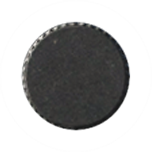
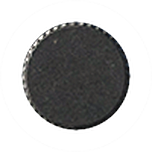
CH-47F Viewports changes.

diff --git a/Aircraft CH-47F Plugin/Gauges/Chronometer/Chronometer.cs b/Aircraft CH-47F Plugin/Gauges/Chronometer/Chronometer.cs
@@ -47,7 +47,7 @@ namespace GadrocsWorkshop.Helios.Gauges.CH47F.Chronometer
         {
             SupportedInterfaces = new[] { typeof(Interfaces.DCS.CH47F.CH47FInterface) };
             _interfaceDevice = "M880 Chronometer";
-            _vpName = "CH47F_CHRONOMETER";
+            _vpName = "CLOCK";
             if (_vpName != "" && _includeViewport) AddViewport(_vpName);
             _frameGlassPanel = AddPanel("Chronometer Glass", new Point(SCREEN_RECT.Left, SCREEN_RECT.Top), new Size(SCREEN_RECT.Width, SCREEN_RECT.Height), "{CH-47F}/Gauges/CDU/Images/CDU_glass.png", _interfaceDevice);
             _frameGlassPanel.Opacity = _glassReflectionOpacity;
@@ -168,6 +168,7 @@ namespace GadrocsWorkshop.Helios.Gauges.CH47F.Chronometer
                 BackgroundColor = Color.FromArgb(128, 128, 32, 64),
                 FontColor = Color.FromArgb(255, 255, 255, 255),
                 ViewportName = name,
+                RequiresPatches = false,
                 TextFormat = tf,
                 Left = vpRect.Left,
                 Top = vpRect.Top,

diff --git a/Aircraft CH-47F Plugin/Gauges/CDU/CDU Top.cs b/Aircraft CH-47F Plugin/Gauges/CDU/CDU Top.cs
@@ -50,10 +50,10 @@ namespace GadrocsWorkshop.Helios.Gauges.CH47F.CDU
             switch (_interfaceDevice)
             {
                 case "CDU (Right)":
-                    _vpName = "CH47F_CDU_PILOT";
+                    _vpName = "RIGHT_CDU";
                     break;
                 case "CDU (Left)":
-                    _vpName = "CH47F_CDU_COPILOT";
+                    _vpName = "LEFT_CDU";
                     break;
                 default:
                     break;
@@ -200,6 +200,7 @@ namespace GadrocsWorkshop.Helios.Gauges.CH47F.CDU
                 BackgroundColor = Color.FromArgb(128, 128, 32, 64),
                 FontColor = Color.FromArgb(255, 255, 255, 255),
                 ViewportName = name,
+                RequiresPatches = false,
                 TextFormat = tf,
                 Left = vpRect.Left,
                 Top = vpRect.Top,

diff --git a/Aircraft CH-47F Plugin/Gauges/SFD/SFD.cs b/Aircraft CH-47F Plugin/Gauges/SFD/SFD.cs
@@ -180,6 +180,7 @@ namespace GadrocsWorkshop.Helios.Gauges.CH47F.SFD
                 BackgroundColor = Color.FromArgb(128, 128, 32, 64),
                 FontColor = Color.FromArgb(255, 255, 255, 255),
                 ViewportName = name,
+                RequiresPatches = false,
                 TextFormat = tf,
                 Left = vpRect.Left,
                 Top = vpRect.Top,

diff --git a/Aircraft CH-47F Plugin/Gauges/MFD/MFD.cs b/Aircraft CH-47F Plugin/Gauges/MFD/MFD.cs
@@ -213,6 +213,7 @@ namespace GadrocsWorkshop.Helios.Gauges.CH47F.MFD
                 BackgroundColor = Color.FromArgb(128, 96, 0, 64),
                 FontColor = Color.FromArgb(255, 255, 255, 255),
                 ViewportName = name,
+                RequiresPatches = false,
                 TextFormat = tf,
                 Left = vpRect.Left,
                 Top = vpRect.Top,
